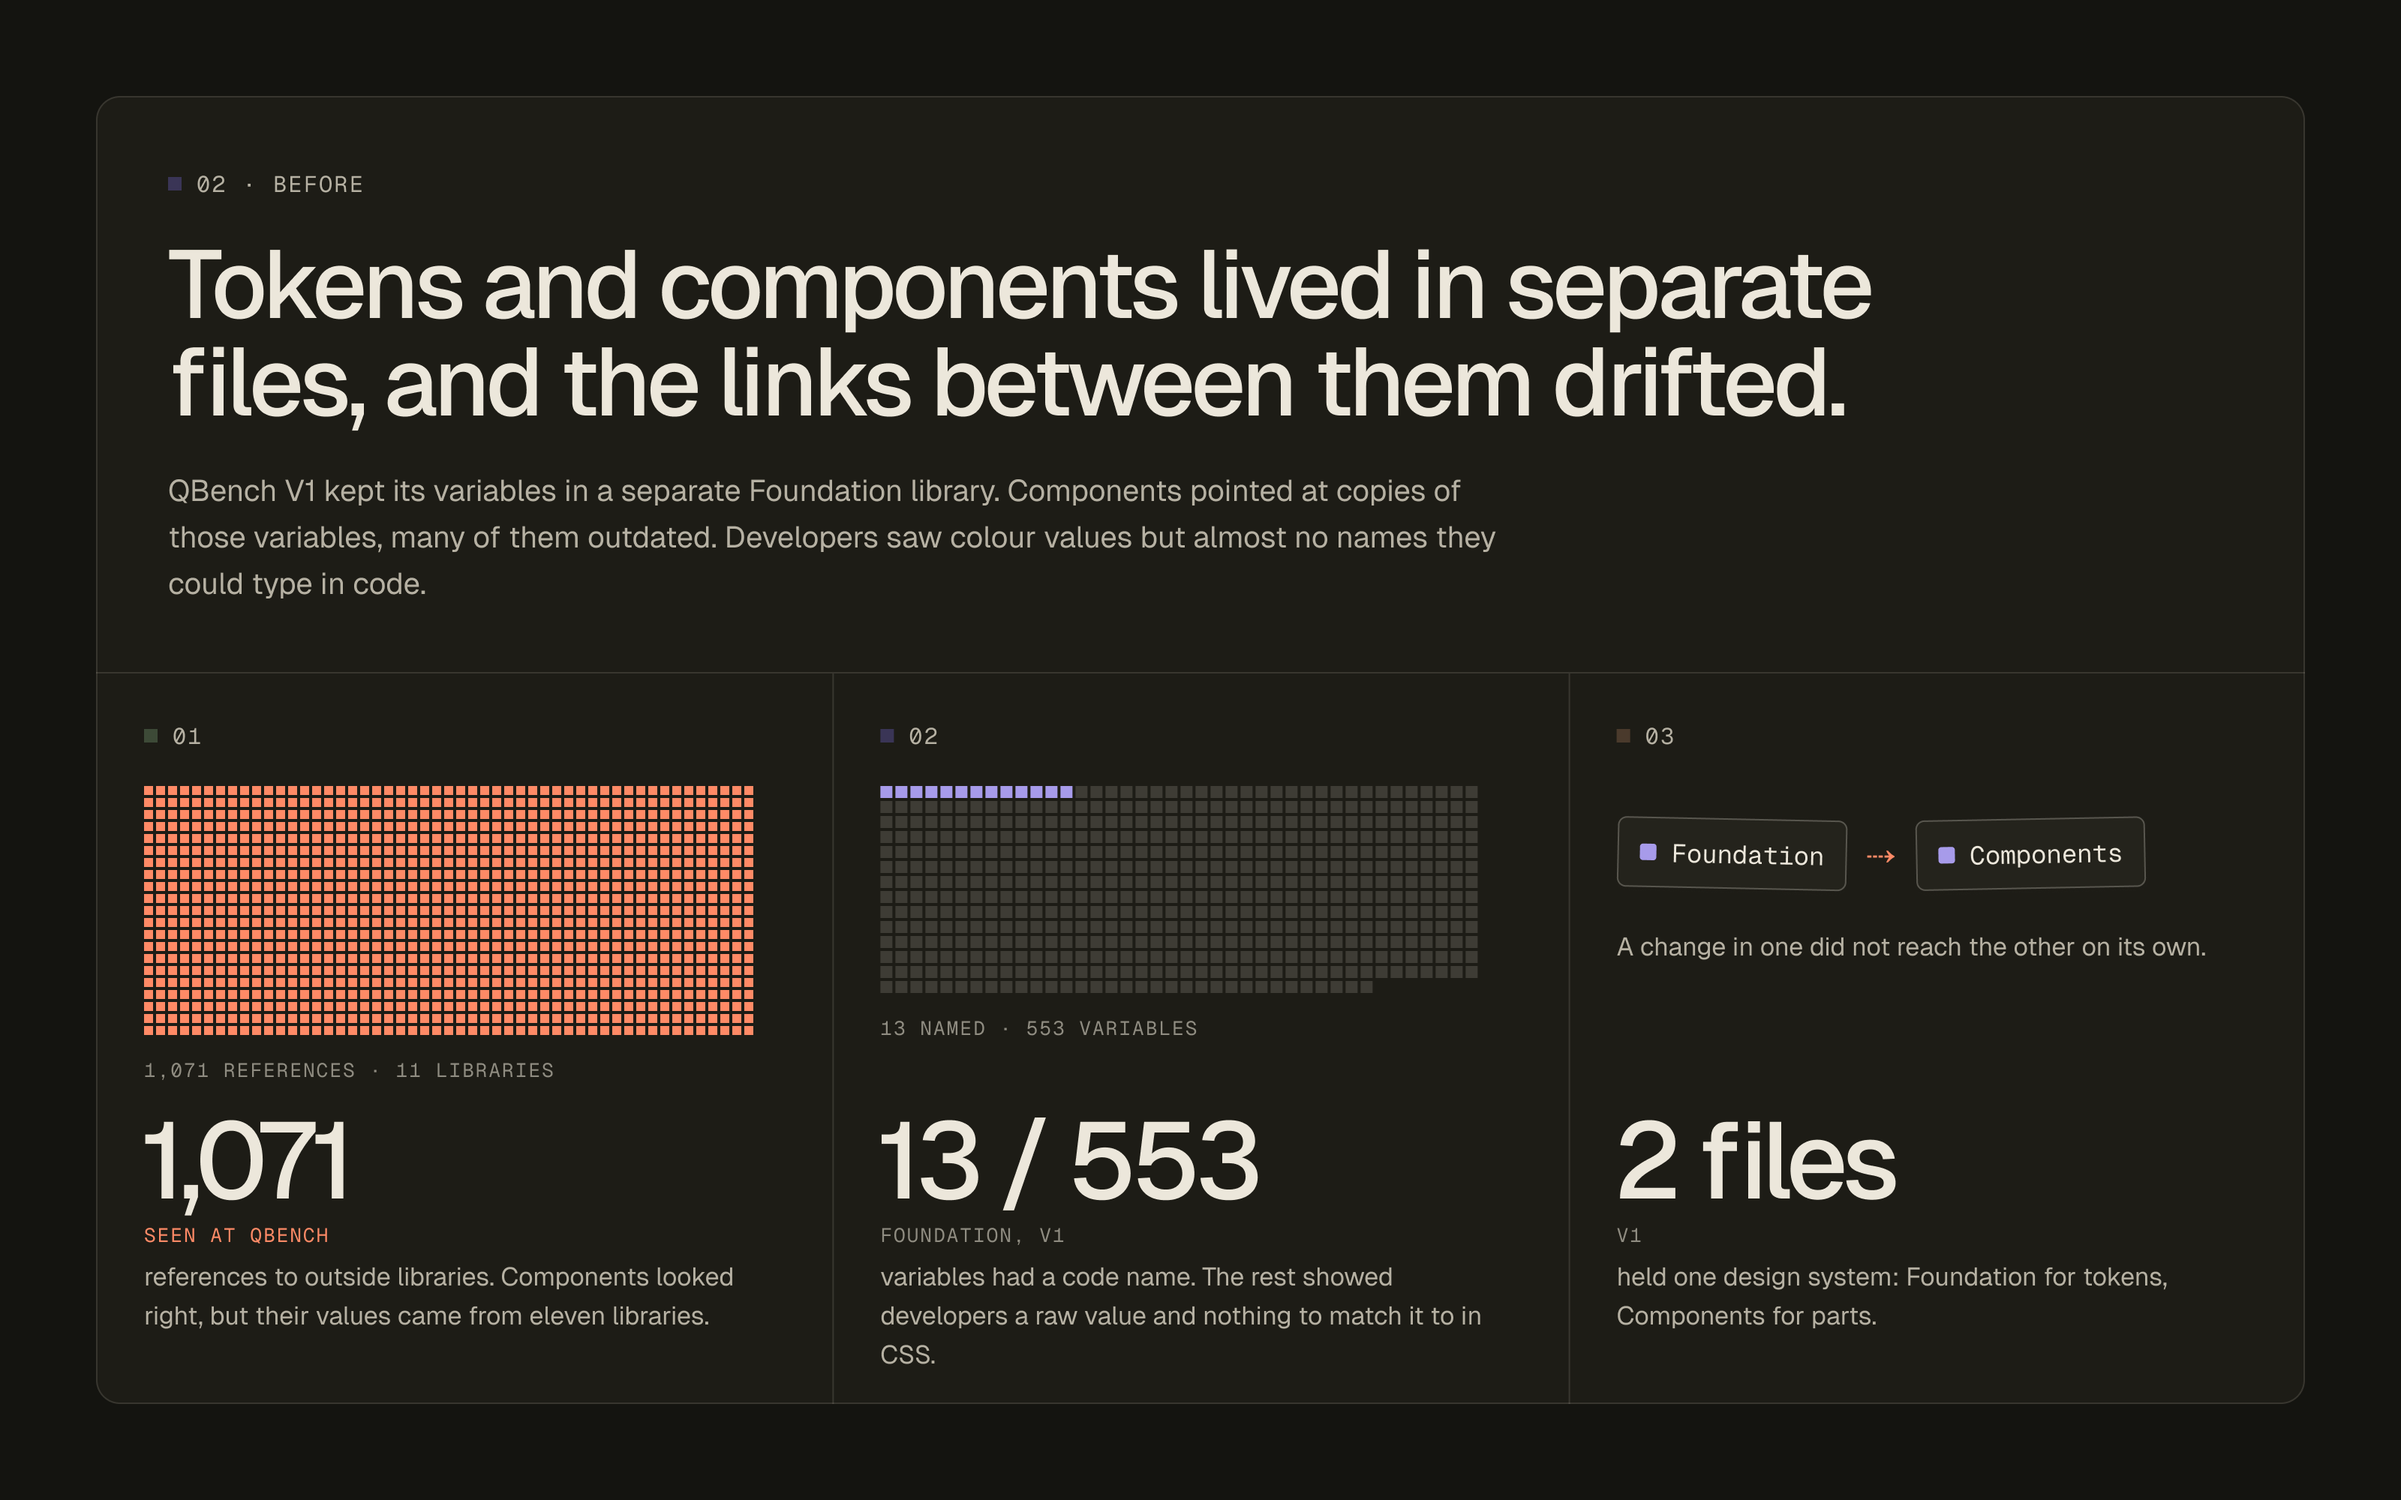
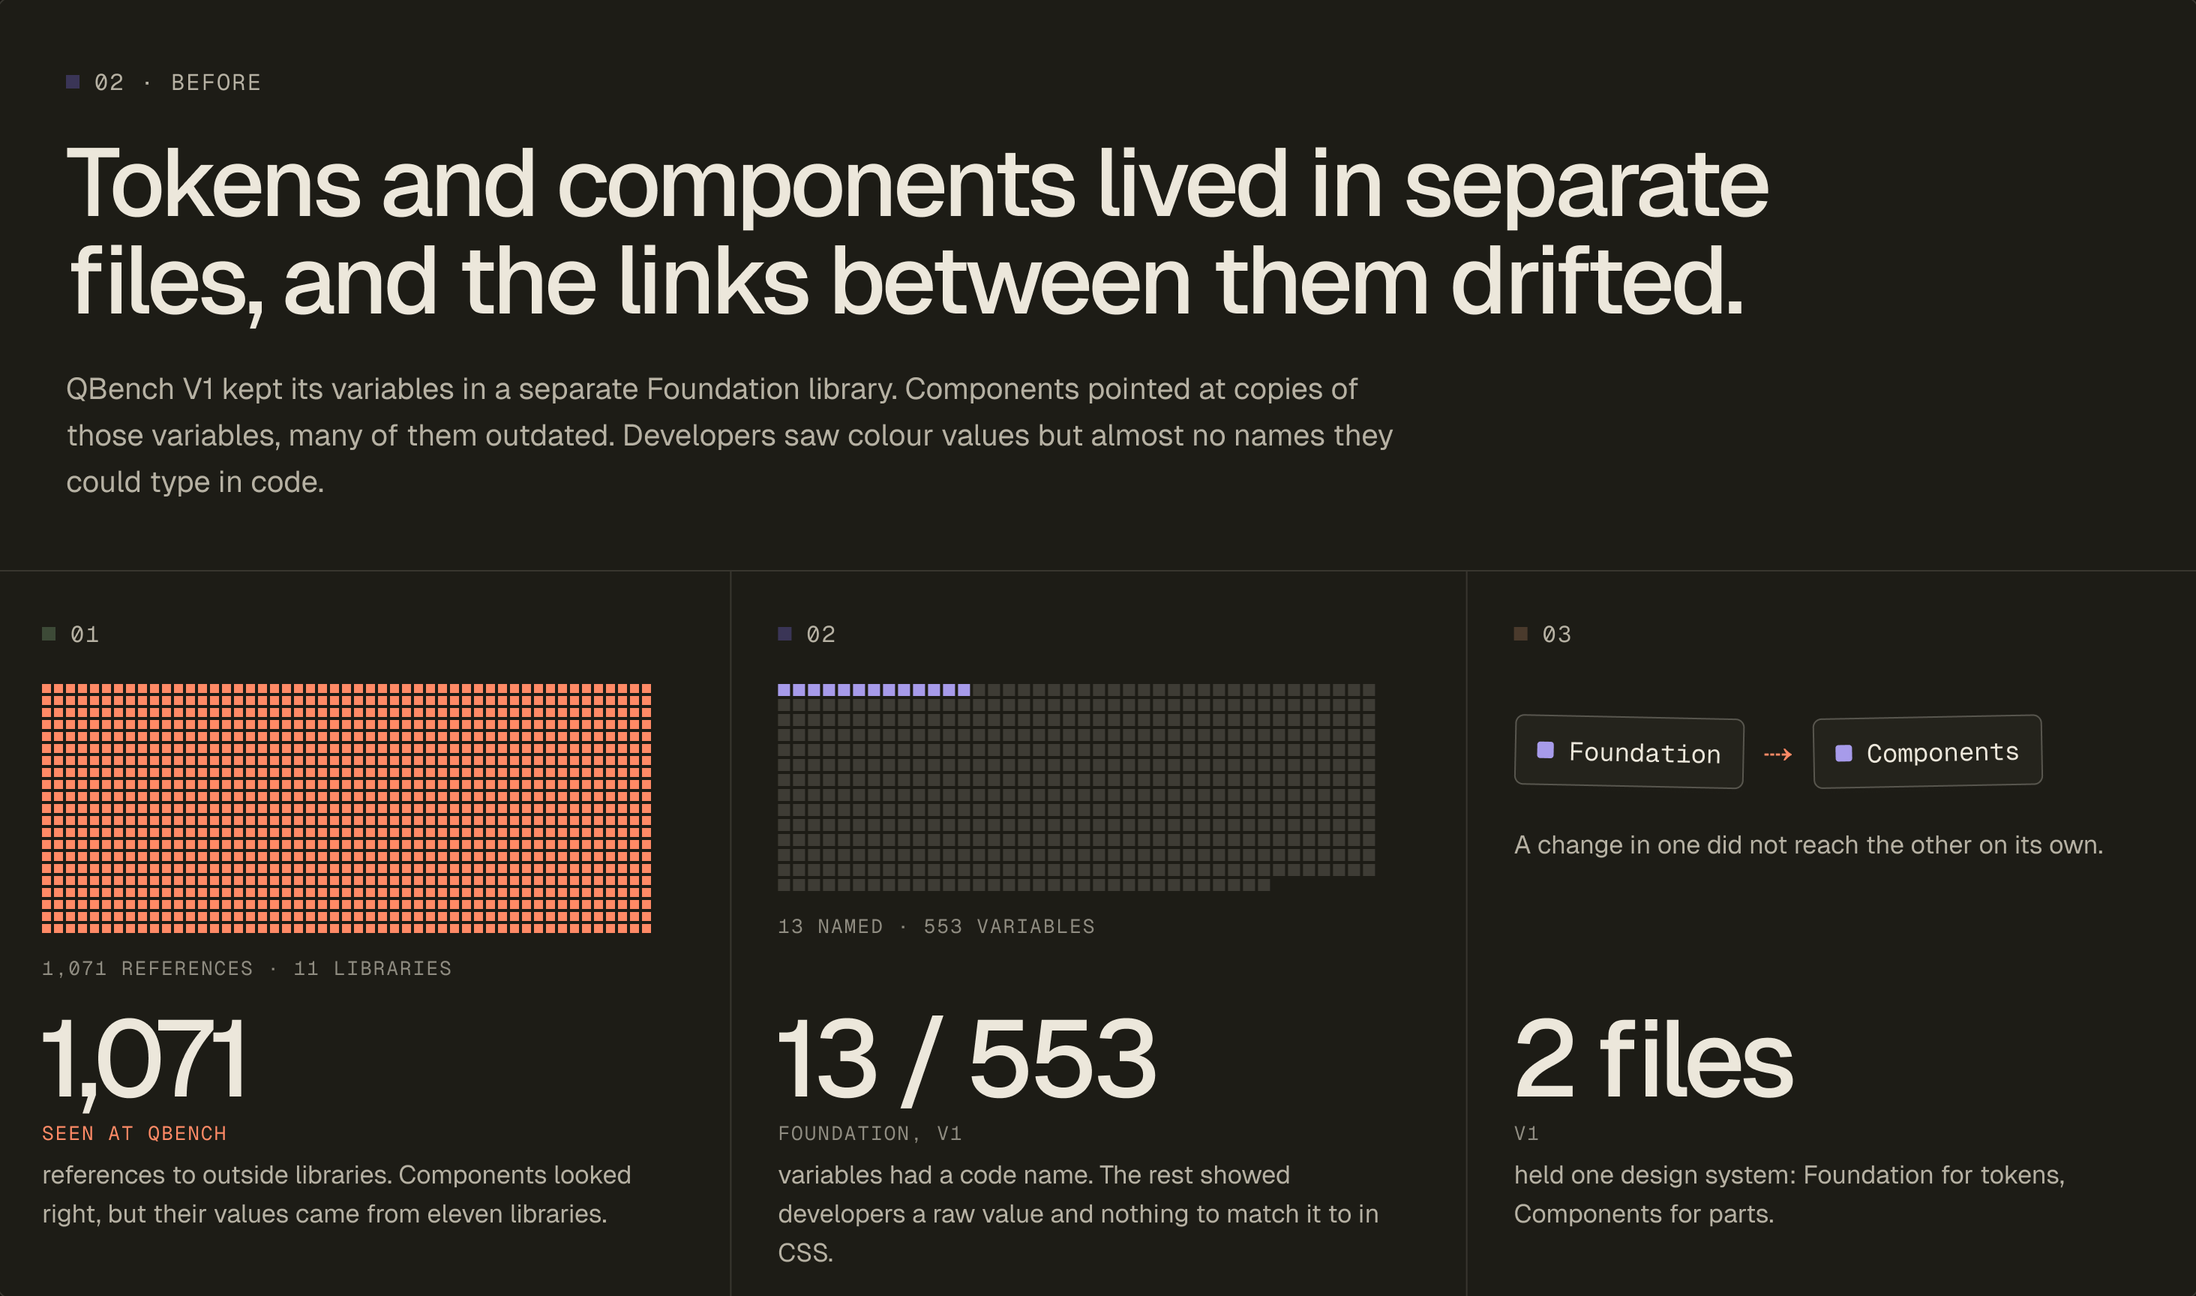
QBench case study: agent log for Screen Generator, Fig labels, single frame on lead image
- Screen Generator step shows the PRD → screen run as an agent log that
  plays line by line when the tab opens (static if reduced motion).
- From the work images get Fig 0.1–0.3 labels.
- Lead image cropped to the slide card so it has one border, not two.
- Tabs can be opened by link (#tab-ch-06-screen-generator).

diff --git a/src/data/case-studies.ts b/src/data/case-studies.ts
@@ -105,7 +105,7 @@ export const caseStudies: CaseStudy[] = [
     lead: {
       kind: 'image',
       placeholder: '[Screenshot: Foundation library, before and after]',
-      src: { light: '/work/qbench/before-day.png', dark: '/work/qbench/before-night.png', width: 3200, height: 2000 },
+      src: { light: '/work/qbench/before-day.png', dark: '/work/qbench/before-night.png', width: 2928, height: 1728 },
       alt: 'Before: 1,071 references to eleven outside libraries, 13 of 553 variables with a code name, and tokens and components kept in two separate files.',
     },
     numbersHeading: 'In numbers, and what they mean',
